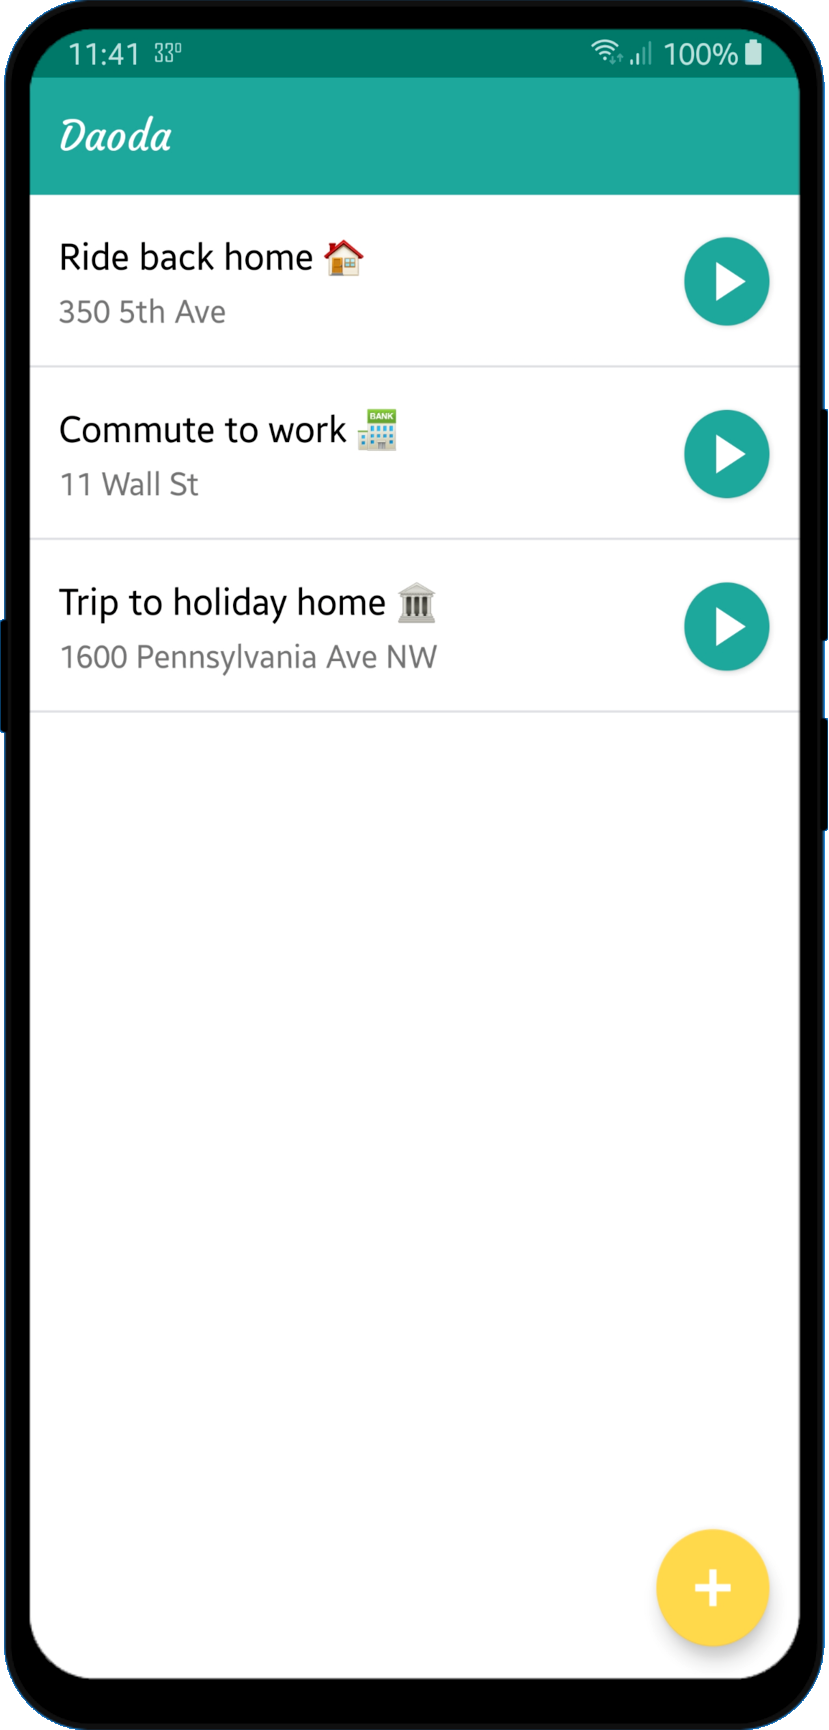
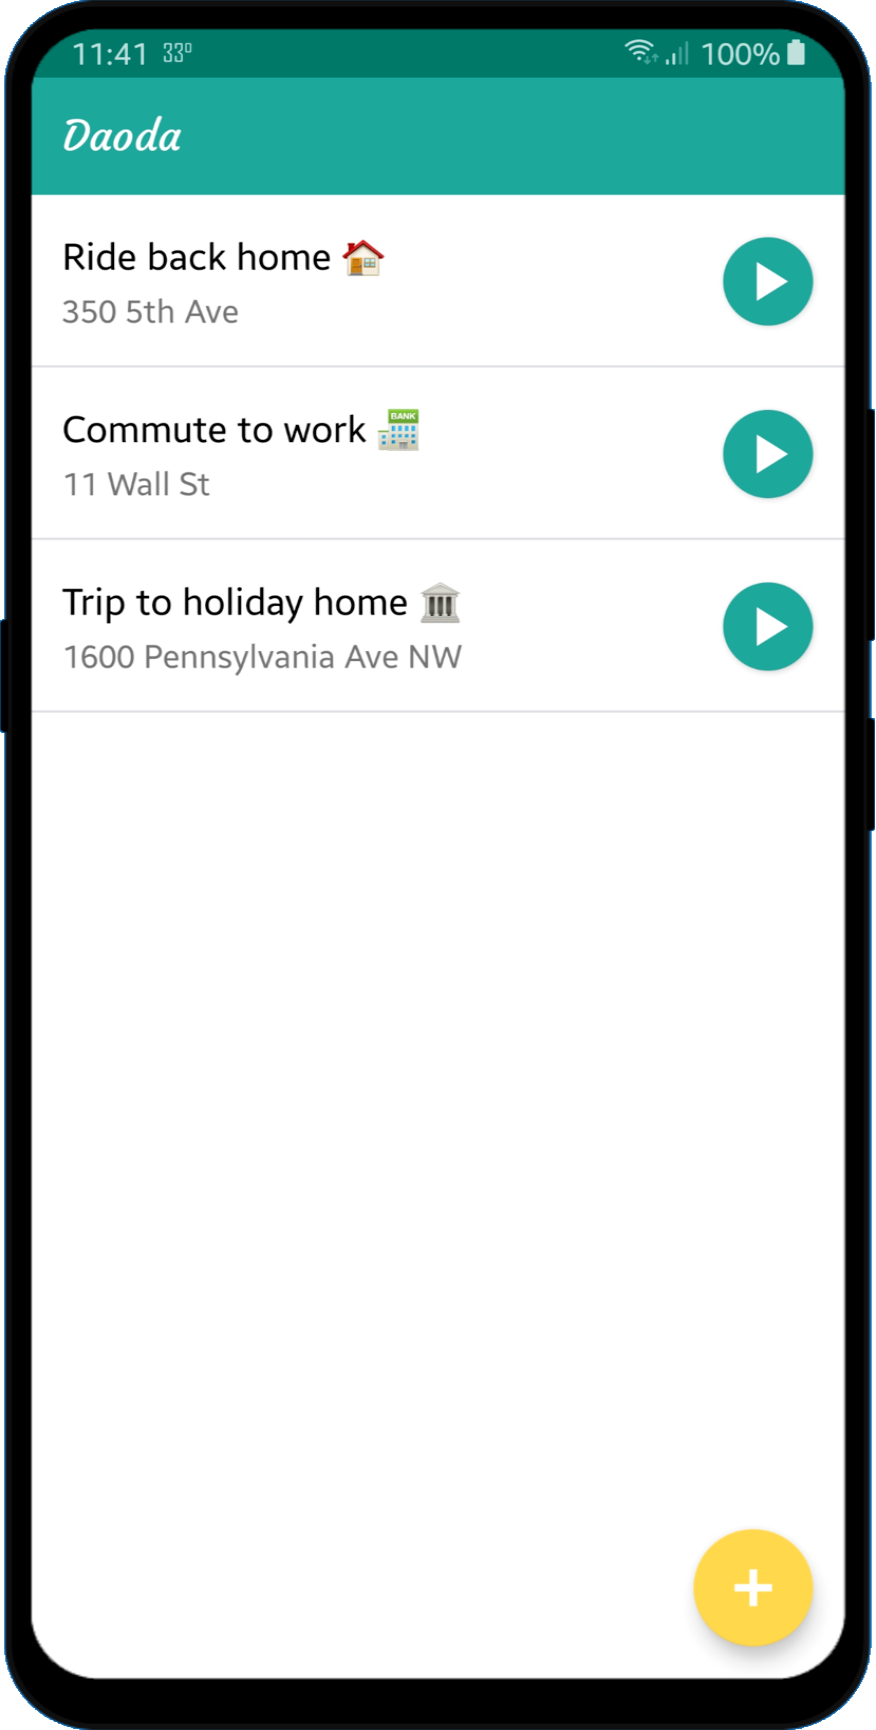
Add main screenshot on the left
A screenshot of the main screen of the app is displayed on devices more than 1200px wide.

Changed region(s): [[0.9952, 0.4682, 1.0, 0.9676], [0.9952, 0.0312, 1.0, 0.2497], [0.9952, 0.3746, 1.0, 0.4058]]

diff --git a/src/components/app-page/AppPage.jsx b/src/components/app-page/AppPage.jsx
@@ -5,20 +5,27 @@ import Headline from "./headline/Headline";
 import style from "./AppPage.module.css";
 import DownloadButtons from "./download-buttons/DownloadButtons";
 import Rating from "./rating/Rating";
+import useWindowDimensions from "../../util/WindowDimensionHook";
 
 const AppPage = () => {
     const {pageState, appInfo} = useContext(AppPageContext);
+    const {width} = useWindowDimensions();
 
     switch (pageState) {
         case PageState.READY :
             return (
                 <div className={style.appPage__mainWrapper}>
-                    <div className={style.appPage__topSection}>
-                        <Headline app_icon={appInfo.images.app_icon_path} app_title={appInfo.name}
-                                  install_count={appInfo.stats.install_count}/>
-                        <Rating rating={appInfo.stats.rating} review_count={appInfo.stats.review_count}/>
-                        <DownloadButtons playLink={appInfo.download_links.play_store}
-                                         apkLink={appInfo.download_links.apk}/>
+                    <div className={style.appPage__mainContent}>
+                        {width > 1200 && <div className={style.appPage__mainScreenshot}>
+                            <img src={appInfo.images.main_screenshot_path} alt={'Main app screenshot'}/>
+                        </div>}
+                        <div className={style.appPage__topSection}>
+                            <Headline app_icon={appInfo.images.app_icon_path} app_title={appInfo.name}
+                                      install_count={appInfo.stats.install_count}/>
+                            <Rating rating={appInfo.stats.rating} review_count={appInfo.stats.review_count}/>
+                            <DownloadButtons playLink={appInfo.download_links.play_store}
+                                             apkLink={appInfo.download_links.apk}/>
+                        </div>
                     </div>
                 </div>
             )

diff --git a/src/assets/images/en/battery-temp/BatteryTempImagesEN.js b/src/assets/images/en/battery-temp/BatteryTempImagesEN.js
@@ -1,9 +1,10 @@
 import Icon from "../../shared/battery_temp_logo.svg";
-import MainScreen from "./main_screen.png";
+import MainScreenC from "./main_screen-c.png";
+import MainScreenF from "./main_screen-f.png";
 
 export const BatteryTempImagesEN_US = {
     app_icon_path: Icon,
-    main_screenshot_path: MainScreen,
+    main_screenshot_path: MainScreenF,
     screenshot_paths: [
         "https://play-lh.googleusercontent.com/F5tX5W0KsIy3ke5MDamGteuchwIPZPGkncya7AtgmHRiusSV_twl98PjHqBvd0zwqkIP=w1536-h722",
         "https://play-lh.googleusercontent.com/V-TiuXt_bN6G7UwdXz8Ig6H7tTufBlraoQ2bLWiq31kd4Aiz5Fa5HSc5Umq05DQR1A=w1536-h722",
@@ -15,7 +16,7 @@ export const BatteryTempImagesEN_US = {
 
 export const BatteryTempImagesEN_UK = {
     app_icon_path: Icon,
-    main_screenshot_path: MainScreen,
+    main_screenshot_path: MainScreenC,
     screenshot_paths: [
         "https://play-lh.googleusercontent.com/teDcHVlUL7Rlu4BI-TdndtZ7MKxbydWXFFrphWdcWTkUHZ1qyL-aIlhvLLEBPOK51U4=w1536-h722",
         "https://play-lh.googleusercontent.com/sbYi-O6FXutLK9Tcr-VNmnmPCEeaay7IRa_PUJZG6xal8MdZTBJu1CeyNA7RcNsMvC4r=w1536-h722",

diff --git a/src/util/WindowDimensionHook.js b/src/util/WindowDimensionHook.js
@@ -1,0 +1,24 @@
+import {useEffect, useState} from "react";
+
+function getWindowDimensions() {
+    const { innerWidth: width, innerHeight: height } = window;
+    return {
+        width,
+        height
+    };
+}
+
+export default function useWindowDimensions() {
+    const [windowDimensions, setWindowDimensions] = useState(getWindowDimensions());
+
+    useEffect(() => {
+        function handleResize() {
+            setWindowDimensions(getWindowDimensions());
+        }
+
+        window.addEventListener('resize', handleResize);
+        return () => window.removeEventListener('resize', handleResize);
+    }, []);
+
+    return windowDimensions;
+}

diff --git a/src/components/app-page/AppPage.module.css b/src/components/app-page/AppPage.module.css
@@ -6,9 +6,33 @@
     padding: 16px var(--side-padding);
 }
 
+.appPage__mainContent {
+    display: flex;
+    column-gap: 20px;
+}
+
+.appPage__mainScreenshot {
+    flex-grow: 3;
+    display: flex;
+    align-items: center;
+    align-self: center;
+
+    height: 100%;
+}
+
+.appPage__mainScreenshot > img{
+    width: auto;
+    height: 56.25vh;
+
+    margin: auto;
+}
+
 .appPage__topSection {
+    flex-grow: 7;
     display: grid;
     align-items: center;
     column-gap: 15px;
     row-gap: 40px;
+
+    height: max-content;
 }
